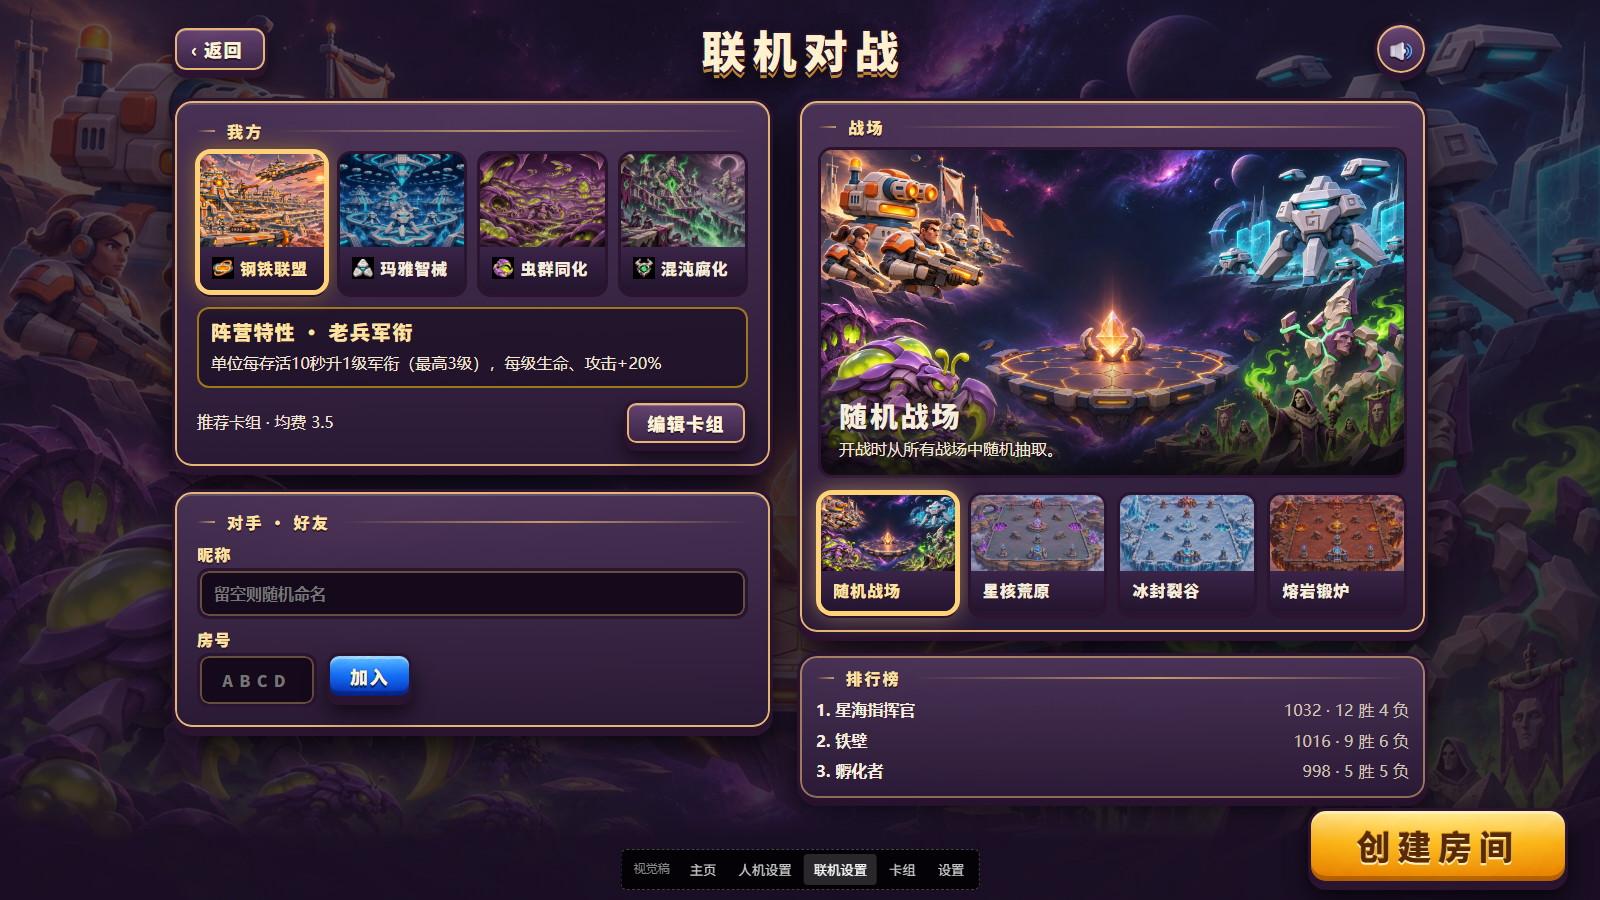
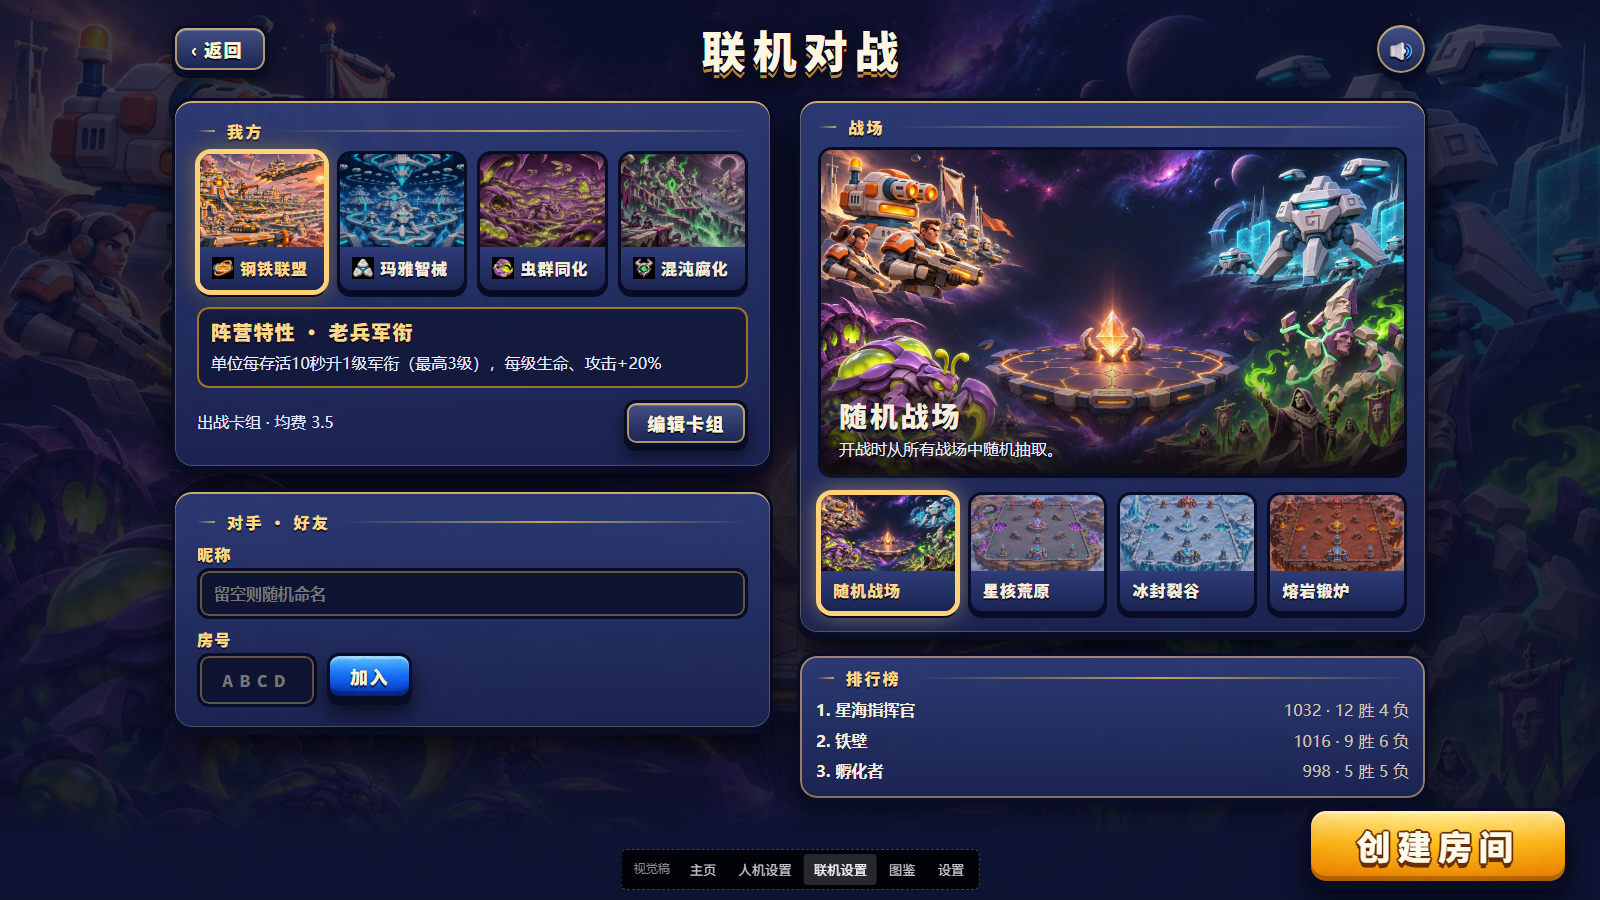
视觉稿 v0.6:配色改为主题变量,三套对比(A 星夜蓝金 默认 / B 晶紫 / C 锻铜,?theme=a|b|c);页面<面板<可交互三层明度分离,金色只用于主操作与选中

diff --git a/mockup/index.html b/mockup/index.html
@@ -12,7 +12,7 @@
 :root {
   --bg-0: #120e18; --bg-1: #1e1826; --bg-2: #2a2233;
   --steel: #4a4452; --steel-hi: #7a7282;
-  --gold: #e9c27a; --gold-hi: #ffe3a3; --gold-deep: #8a6332;
+  --gold: #e9c27a; --gold-hi: var(--label); --gold-deep: #8a6332;
   --ink-1: #f6eedc; --ink-2: #cfc4b2; --ink-3: #8f8597;
   --danger: #e0685a; --ok: #7bc98a; --focus: #fff2a7;
   --f-display: 'Noto Sans SC', 'Microsoft YaHei', sans-serif;   /* 全站展示字 = 粗黑体,与字标同一类厚重字形 */
@@ -104,11 +104,11 @@ body {
 /* 小:紫石板 + 金边(同字标底板) */
 .minor-row { display: grid; grid-template-columns: repeat(3, 1fr); gap: 12px; }
 .g-plum { height: 62px; font-size: 22px; letter-spacing: .1em; border-radius: 14px;
-  background: linear-gradient(180deg, #6b4a7ad9, #3a2346f2), url(../assets/ui/materials/plum-slate.webp) center / cover;
-  box-shadow: inset 0 0 0 2px #e5b573, inset 0 3px 0 #ffffff40, 0 5px 0 var(--plum-line), 0 12px 18px #0009;
+  background: linear-gradient(180deg, color-mix(in srgb, var(--s1) 85%, transparent), color-mix(in srgb, var(--s2) 95%, transparent)), var(--tex);
+  box-shadow: inset 0 0 0 2px var(--rim), inset 0 3px 0 #ffffff40, 0 5px 0 var(--plum-line), 0 12px 18px #0009;
   text-shadow: 0 2px 0 var(--plum-line); }
-.g-plum:active { box-shadow: inset 0 0 0 2px #e5b573, 0 1px 0 var(--plum-line), 0 5px 10px #0009; }
-.g-xr { color: #e9dcff; background: linear-gradient(180deg, #8a62d6d9, #4a2a8cf2), url(../assets/ui/materials/plum-slate.webp) center / cover; letter-spacing: .06em; }
+.g-plum:active { box-shadow: inset 0 0 0 2px var(--rim), 0 1px 0 var(--plum-line), 0 5px 10px #0009; }
+.g-xr { color: #e9dcff; background: linear-gradient(180deg, #8a62d6d9, #4a2a8cf2), var(--tex); letter-spacing: .06em; }
 .round-btn { width: 54px; height: 54px; border-radius: 50%; font-size: 22px; letter-spacing: 0; }
 .tools { position: fixed; top: 20px; right: 24px; display: flex; gap: 10px; }
 @media (max-width: 720px) {
@@ -211,44 +211,44 @@ body {
 }
 
 /* ═════ v0.4 二级页主题:与主页同一套——紫石板底板 + 金边 + 深紫粗描边 + 立体底边,粗黑体 ═════ */
-.screen.sub { background: linear-gradient(#1a0f24b3, #1a0f24d9), url(../assets/ui/bg_menu.webp) center / cover no-repeat, var(--bg-0); }
-.frame { background: linear-gradient(180deg, #4a3458e6, #2a1a36f2), url(../assets/ui/materials/plum-slate.webp) center / cover;
+.screen.sub { background: linear-gradient(color-mix(in srgb, var(--s3) 70%, transparent), color-mix(in srgb, var(--s3) 85%, transparent)), url(../assets/ui/bg_menu.webp) center / cover no-repeat, var(--bg-0); }
+.frame { background: linear-gradient(180deg, color-mix(in srgb, var(--s1) 90%, transparent), color-mix(in srgb, var(--s2) 95%, transparent)), var(--tex);
   border: 3px solid var(--plum-line); border-radius: 20px;
-  box-shadow: inset 0 0 0 2px #e5b573, inset 0 4px 0 #ffffff26, 0 6px 0 var(--plum-line), 0 18px 30px #000a; }
-.frame.thin { border-width: 3px; box-shadow: inset 0 0 0 2px #e5b57399, 0 5px 0 var(--plum-line), 0 12px 22px #0009; }
-.topbar h1 { font: 900 var(--t-h1)/1.1 var(--f-display); letter-spacing: .16em; padding-left: .16em; color: #fff1cf;
+  box-shadow: inset 0 0 0 2px var(--rim), inset 0 4px 0 #ffffff26, 0 6px 0 var(--plum-line), 0 18px 30px #000a; }
+.frame.thin { border-width: 3px; box-shadow: inset 0 0 0 2px color-mix(in srgb, var(--rim) 60%, transparent), 0 5px 0 var(--plum-line), 0 12px 22px #0009; }
+.topbar h1 { font: 900 var(--t-h1)/1.1 var(--f-display); letter-spacing: .16em; padding-left: .16em; color: var(--ink-title);
   text-shadow: 0 3px 0 var(--plum-line), 2px 0 0 var(--plum-line), -2px 0 0 var(--plum-line), 0 -2px 0 var(--plum-line), 0 6px 0 #b9852f, 0 12px 20px #000c; }
-.over { color: #ffe3a3; font-size: var(--t-body); letter-spacing: .14em; text-shadow: 0 2px 0 var(--plum-line); }
-.over::before, .over::after { background: linear-gradient(90deg, transparent, #e5b573cc, transparent); height: 2px; }
-.over::before { background: linear-gradient(90deg, transparent, #e5b573cc); }
+.over { color: var(--label); font-size: var(--t-body); letter-spacing: .14em; text-shadow: 0 2px 0 var(--plum-line); }
+.over::before, .over::after { background: linear-gradient(90deg, transparent, color-mix(in srgb, var(--rim) 80%, transparent), transparent); height: 2px; }
+.over::before { background: linear-gradient(90deg, transparent, color-mix(in srgb, var(--rim) 80%, transparent)); }
 .g-sm { width: auto; height: 46px; padding: 0 20px; font-size: 18px; letter-spacing: .08em; border-radius: 12px; }
 .g-back { width: auto; height: 48px; padding: 0 22px 0 16px; font-size: 18px; letter-spacing: .08em; border-radius: 14px; }
 .g-go { width: auto; min-width: 260px; height: 76px; padding: 0 40px; font-size: 34px; }
-.choice { border: 3px solid var(--plum-line); border-radius: 14px; background: #1c1024; box-shadow: 0 4px 0 var(--plum-line); }
-.choice:hover { border-color: #e5b573; }
+.choice { border: 3px solid var(--plum-line); border-radius: 14px; background: var(--s3); box-shadow: 0 4px 0 var(--plum-line); }
+.choice:hover { border-color: var(--rim); }
 .choice.sel { border-color: #ffd27a; box-shadow: 0 0 0 2px #ffd27a, 0 4px 0 var(--plum-line), 0 0 24px color-mix(in srgb, var(--fc, #ffd27a) 55%, transparent); }
-.choice .name { font-size: var(--t-body); letter-spacing: .06em; padding: 10px 12px 11px; background: linear-gradient(180deg, #3a2448, #24152e); text-shadow: 0 2px 0 var(--plum-line); }
-.choice.sel .name { color: #ffe3a3; }
+.choice .name { font-size: var(--t-body); letter-spacing: .06em; padding: 10px 12px 11px; background: linear-gradient(180deg, var(--s1), var(--s2)); text-shadow: 0 2px 0 var(--plum-line); }
+.choice.sel .name { color: var(--label); }
 .diff { padding: 0; }
-.diff .name { justify-content: center; padding: 18px 0; font-size: var(--t-h3); background: linear-gradient(180deg, #4a3458, #2a1a36); }
+.diff .name { justify-content: center; padding: 18px 0; font-size: var(--t-h3); background: linear-gradient(180deg, var(--s1), var(--s2)); }
 .choice.diff.sel .name { color: var(--gold-ink); background: linear-gradient(180deg, #fff1a8, #ffc21a 55%, #e07a00); text-shadow: 1.5px 0 0 var(--gold-stroke), -1.5px 0 0 var(--gold-stroke), 0 1.5px 0 var(--gold-stroke), 0 -1.5px 0 var(--gold-stroke), 0 3px 0 var(--gold-stroke); }
-.passive { border-left: 0; border-radius: 12px; background: #1a0f24b3; box-shadow: inset 0 0 0 2px color-mix(in srgb, var(--fc, #e5b573) 70%, transparent); }
-.passive b { font-size: var(--t-h3); color: #ffe3a3; text-shadow: 0 2px 0 var(--plum-line); }
-.passive p { color: #f2e6d2; font-size: var(--t-body); }
-.deckline { font-size: var(--t-body); color: #f2e6d2; }
-.map .preview { border: 3px solid var(--plum-line); border-radius: 14px; box-shadow: inset 0 0 0 2px #e5b573; }
+.passive { border-left: 0; border-radius: 12px; background: color-mix(in srgb, var(--s3) 70%, transparent); box-shadow: inset 0 0 0 2px color-mix(in srgb, var(--fc, var(--rim)) 70%, transparent); }
+.passive b { font-size: var(--t-h3); color: var(--label); text-shadow: 0 2px 0 var(--plum-line); }
+.passive p { color: var(--ink-soft); font-size: var(--t-body); }
+.deckline { font-size: var(--t-body); color: var(--ink-soft); }
+.map .preview { border: 3px solid var(--plum-line); border-radius: 14px; box-shadow: inset 0 0 0 2px var(--rim); }
 .map .preview h2 { font-size: var(--t-h2); letter-spacing: .1em; text-shadow: 0 3px 0 var(--plum-line); }
-.map .preview p { font-size: var(--t-body); color: #f2e6d2; }
+.map .preview p { font-size: var(--t-body); color: var(--ink-soft); }
 .seg { border: 3px solid var(--plum-line); border-radius: 12px; box-shadow: 0 4px 0 var(--plum-line); }
-.seg button { font-size: var(--t-body); padding: 12px 20px; background: linear-gradient(180deg, #4a3458, #2a1a36); color: #f2e6d2; text-shadow: 0 2px 0 var(--plum-line); }
+.seg button { font-size: var(--t-body); padding: 12px 20px; background: linear-gradient(180deg, var(--s1), var(--s2)); color: var(--ink-soft); text-shadow: 0 2px 0 var(--plum-line); }
 .seg button + button { border-left: 2px solid var(--plum-line); }
 .seg button.sel { background: linear-gradient(180deg, #fff1a8, #ffc21a 55%, #e07a00); color: var(--gold-ink); text-shadow: 1.5px 0 0 var(--gold-stroke), -1.5px 0 0 var(--gold-stroke), 0 1.5px 0 var(--gold-stroke), 0 -1.5px 0 var(--gold-stroke), 0 3px 0 var(--gold-stroke); }
-.input { border: 3px solid var(--plum-line); border-radius: 12px; background: #140a1c; box-shadow: inset 0 0 0 2px #e5b57366; font-size: var(--t-body); }
-.field span { font: 900 var(--t-body)/1 var(--f-display); color: #ffe3a3; letter-spacing: .08em; text-shadow: 0 2px 0 var(--plum-line); }
+.input { border: 3px solid var(--plum-line); border-radius: 12px; background: var(--s3); box-shadow: inset 0 0 0 2px color-mix(in srgb, var(--rim) 40%, transparent); font-size: var(--t-body); }
+.field span { font: 900 var(--t-body)/1 var(--f-display); color: var(--label); letter-spacing: .08em; text-shadow: 0 2px 0 var(--plum-line); }
 .board li { font-size: var(--t-body); }
-.actionbar { background: linear-gradient(transparent, #1a0f24f2 45%); gap: 14px; }
+.actionbar { background: linear-gradient(transparent, color-mix(in srgb, var(--s3) 95%, transparent) 45%); gap: 14px; }
 .row { border-top: 2px solid #ffffff14; padding: 16px 0; }
-.row b { font: 900 var(--t-h3)/1.2 var(--f-display); color: #fff1cf; letter-spacing: .06em; text-shadow: 0 2px 0 var(--plum-line); }
+.row b { font: 900 var(--t-h3)/1.2 var(--f-display); color: var(--ink-title); letter-spacing: .06em; text-shadow: 0 2px 0 var(--plum-line); }
 .settings { padding: 12px 30px 24px; }
 @media (max-width: 720px) {
   .g-go { min-width: 0; flex: 1; height: 64px; font-size: 28px; }
@@ -269,10 +269,10 @@ body {
 .pool-wrap { padding: 16px; }
 .pool { display: grid; grid-template-columns: repeat(auto-fill, minmax(132px, 1fr)); gap: 12px; }
 .card { position: relative; padding: 0 0 10px; cursor: pointer; text-align: center; color: var(--ink-1); font: inherit;
-  border: 3px solid var(--plum-line); border-radius: 14px; background: linear-gradient(180deg, #4a3458, #22142c); box-shadow: 0 4px 0 var(--plum-line);
+  border: 3px solid var(--plum-line); border-radius: 14px; background: linear-gradient(180deg, var(--s1), var(--s3)); box-shadow: 0 4px 0 var(--plum-line);
   transition: transform .12s var(--ease), border-color .12s; }
-.card:hover { transform: translateY(-3px); border-color: #e5b573; }
-.card img { display: block; width: 100%; aspect-ratio: 1; object-fit: contain; border-radius: 11px 11px 0 0; background: radial-gradient(#5a4068, #22142c 72%); }
+.card:hover { transform: translateY(-3px); border-color: var(--rim); }
+.card img { display: block; width: 100%; aspect-ratio: 1; object-fit: contain; border-radius: 11px 11px 0 0; background: radial-gradient(var(--s1), var(--s3) 72%); }
 .card.spell img, .detail .art.spell { mix-blend-mode: screen; }   /* 法术插图是黑底发光图,滤色去黑 */
 .card .cname { padding: 8px 6px 0; font: 900 var(--t-body)/1.2 var(--f-display); letter-spacing: .04em; text-shadow: 0 2px 0 var(--plum-line); }
 .card.in { border-color: #ffd27a; box-shadow: 0 0 0 2px #ffd27a, 0 4px 0 var(--plum-line); }
@@ -287,24 +287,24 @@ body {
 .side { display: grid; gap: 18px; position: sticky; top: 12px; }
 .detail { padding: 16px; display: grid; grid-template-columns: 150px 1fr; gap: 6px 16px; align-items: start; }
 .detail .art-wrap { position: relative; grid-row: span 3; }
-.detail .art { display: block; width: 150px; height: 150px; object-fit: contain; border-radius: 12px; background: radial-gradient(#6a4c7a, #22142c 72%); border: 3px solid var(--plum-line); }
-.detail h3 { margin: 2px 0 0; font: 900 var(--t-h2)/1.15 var(--f-display); letter-spacing: .06em; color: #fff1cf; text-shadow: 0 3px 0 var(--plum-line); }
-.detail .type { color: #ffe3a3; font: 900 var(--t-small)/1 var(--f-display); letter-spacing: .1em; text-shadow: 0 2px 0 var(--plum-line); }
+.detail .art { display: block; width: 150px; height: 150px; object-fit: contain; border-radius: 12px; background: radial-gradient(var(--s1), var(--s3) 72%); border: 3px solid var(--plum-line); }
+.detail h3 { margin: 2px 0 0; font: 900 var(--t-h2)/1.15 var(--f-display); letter-spacing: .06em; color: var(--ink-title); text-shadow: 0 3px 0 var(--plum-line); }
+.detail .type { color: var(--label); font: 900 var(--t-small)/1 var(--f-display); letter-spacing: .1em; text-shadow: 0 2px 0 var(--plum-line); }
 .chips { display: flex; flex-wrap: wrap; gap: 6px; }
-.chip { padding: 5px 10px; border-radius: 10px; background: #1a0f24b3; border: 2px solid #ffffff1a; font: 900 var(--t-small)/1 var(--f-display); color: #f2e6d2; }
+.chip { padding: 5px 10px; border-radius: 10px; background: color-mix(in srgb, var(--s3) 70%, transparent); border: 2px solid #ffffff1a; font: 900 var(--t-small)/1 var(--f-display); color: var(--ink-soft); }
 .chip b { color: #fff; font-size: var(--t-body); margin-left: 4px; }
-.detail .desc { grid-column: 1 / -1; margin: 8px 0 2px; color: #f2e6d2; font-size: var(--t-body); line-height: 1.5; }
+.detail .desc { grid-column: 1 / -1; margin: 8px 0 2px; color: var(--ink-soft); font-size: var(--t-body); line-height: 1.5; }
 .detail .acts { grid-column: 1 / -1; display: flex; gap: 10px; }
 .detail .acts .g-btn { flex: 1; }
 .roster { padding: 16px; }
 .slots { display: grid; grid-template-columns: repeat(4, minmax(0, 1fr)); gap: 10px; padding: 6px 0 0 6px; }
-.dslot { position: relative; display: block; width: 100%; min-width: 0; aspect-ratio: 1; border-radius: 12px; border: 3px solid var(--plum-line); background: radial-gradient(#5a4068, #22142c 72%); box-shadow: 0 3px 0 var(--plum-line); cursor: pointer; padding: 0; }
+.dslot { position: relative; display: block; width: 100%; min-width: 0; aspect-ratio: 1; border-radius: 12px; border: 3px solid var(--plum-line); background: radial-gradient(var(--s1), var(--s3) 72%); box-shadow: 0 3px 0 var(--plum-line); cursor: pointer; padding: 0; }
 .dslot img { width: 100%; height: 100%; object-fit: contain; border-radius: 9px; }
 .dslot.spell img { mix-blend-mode: screen; }
 .dslot .cost { top: -8px; left: -8px; width: 26px; height: 26px; font-size: var(--t-small); }
-.dslot.empty { border-style: dashed; border-color: #e5b57366; background: #1a0f2480; box-shadow: none; cursor: default; }
-.deckstat { display: flex; justify-content: space-between; margin-top: 14px; font: 900 var(--t-body)/1 var(--f-display); color: #f2e6d2; }
-.deckstat b { color: #ffe3a3; font-size: var(--t-h3); text-shadow: 0 2px 0 var(--plum-line); margin-left: 6px; }
+.dslot.empty { border-style: dashed; border-color: color-mix(in srgb, var(--rim) 40%, transparent); background: color-mix(in srgb, var(--s3) 50%, transparent); box-shadow: none; cursor: default; }
+.deckstat { display: flex; justify-content: space-between; margin-top: 14px; font: 900 var(--t-body)/1 var(--f-display); color: var(--ink-soft); }
+.deckstat b { color: var(--label); font-size: var(--t-h3); text-shadow: 0 2px 0 var(--plum-line); margin-left: 6px; }
 @media (max-width: 720px) {
   .tabs { display: grid; grid-template-columns: 1fr 1fr; gap: 8px; }
   .codex { grid-template-columns: 1fr; }
@@ -314,6 +314,39 @@ body {
   .detail { grid-template-columns: 110px 1fr; }
   .detail .art { width: 110px; height: 110px; }
 }
+
+/* ═════ 配色主题(视觉稿对比用,?theme=a|b|c)═════
+   三层明度分离:页面(最暗) < 面板 < 可交互项;金色只给主操作与选中态 */
+:root, body.theme-a {   /* A 星夜蓝金:冷色深空底 + 暖金点缀,呼应背景的星空与字标 */
+  --s1: #2e3c78; --s2: #1b2452; --s3: #0e1432; --plum-line: #080c24; --rim: #e3bb68;
+  --label: #ffd98a; --ink-soft: #e4e9ff; --ink-title: #fff6e2; --ink-dim: #a9b3e0; --tex: none;
+  --tint-a: #090d28c4; --tint-b: #090d28eb; --home-tint: #070a22;
+}
+body.theme-b {   /* B 晶紫:沿用紫色基调,但更亮更干净,去掉脏的石板纹理 */
+  --s1: #5c4192; --s2: #382463; --s3: #1e1338; --plum-line: #150a2a; --rim: #f0c873;
+  --label: #ffe08f; --ink-soft: #f1e9ff; --ink-title: #fff7e6; --ink-dim: #c6b6e8; --tex: none;
+  --tint-a: #150a2ac4; --tint-b: #150a2aeb; --home-tint: #12081f;
+}
+body.theme-c {   /* C 锻铜:炭灰金属 + 青铜描边,更接近传统 RTS 的冷兵器质感 */
+  --s1: #4b4d55; --s2: #2c2e35; --s3: #17181d; --plum-line: #0b0b0e; --rim: #c99a52;
+  --label: #ffd28a; --ink-soft: #ece6dc; --ink-title: #fff3dc; --ink-dim: #b0a898; --tex: none;
+  --tint-a: #0d0d11c8; --tint-b: #0d0d11ee; --home-tint: #0a0a0d;
+}
+/* 二级页底:主视觉压暗(色调随主题) */
+.screen.sub { background: linear-gradient(var(--tint-a), var(--tint-b)), url(../assets/ui/bg_menu.webp) center / cover no-repeat, var(--home-tint); }
+.screen:not(.sub) { background: radial-gradient(ellipse 34% 62% at 50% 56%, color-mix(in srgb, var(--home-tint) 80%, transparent) 0%, color-mix(in srgb, var(--home-tint) 55%, transparent) 55%, transparent 100%),
+  linear-gradient(color-mix(in srgb, var(--home-tint) 40%, transparent), transparent 30%, transparent 70%, color-mix(in srgb, var(--home-tint) 80%, transparent)),
+  url(../assets/ui/bg_menu.webp) center / cover no-repeat, var(--home-tint); }
+/* 面板:上亮下暗的干净渐变 + 顶部一道金线,不再四边都描金 */
+.frame { background: linear-gradient(180deg, color-mix(in srgb, var(--s1) 92%, transparent), color-mix(in srgb, var(--s2) 96%, transparent));
+  box-shadow: inset 0 2px 0 color-mix(in srgb, var(--rim) 85%, transparent), inset 0 0 0 1px color-mix(in srgb, var(--rim) 30%, transparent), 0 5px 0 var(--plum-line), 0 18px 30px #000a; }
+/* 中性按钮(返回 / 编辑卡组 / 未选中的阵营页签):比面板亮一档,金色细边 */
+.g-plum { background: linear-gradient(180deg, color-mix(in srgb, var(--s1) 100%, white 12%), var(--s2));
+  box-shadow: inset 0 0 0 2px color-mix(in srgb, var(--rim) 75%, transparent), inset 0 3px 0 #ffffff33, 0 5px 0 var(--plum-line), 0 10px 16px #0008; }
+.g-xr { background: linear-gradient(180deg, #8a62d6, #4a2a8c); }
+/* 卡片 / 选项:比面板暗一档的“凹槽”,选中才亮金 */
+.choice, .card { background: var(--s3); }
+.choice .name, .seg button, .diff .name { background: linear-gradient(180deg, var(--s1), var(--s2)); }
 </style>
 </head>
 <body>
@@ -542,7 +575,8 @@ document.querySelectorAll('#s-settings .seg').forEach(seg => seg.addEventListene
   const b = e.target.closest('button'); if (b) seg.querySelectorAll('button').forEach(x => x.classList.toggle('sel', x === b));
 }));
 renderSetup(); renderCodex();
-const q = new URLSearchParams(location.search); if (q.get('m')) { opp = q.get('m'); renderSetup(); } if (q.get('s')) go(q.get('s'));
+const q = new URLSearchParams(location.search);
+if (q.get('theme')) document.body.classList.add('theme-' + q.get('theme')); if (q.get('m')) { opp = q.get('m'); renderSetup(); } if (q.get('s')) go(q.get('s'));
 </script>
 </body>
 </html>
